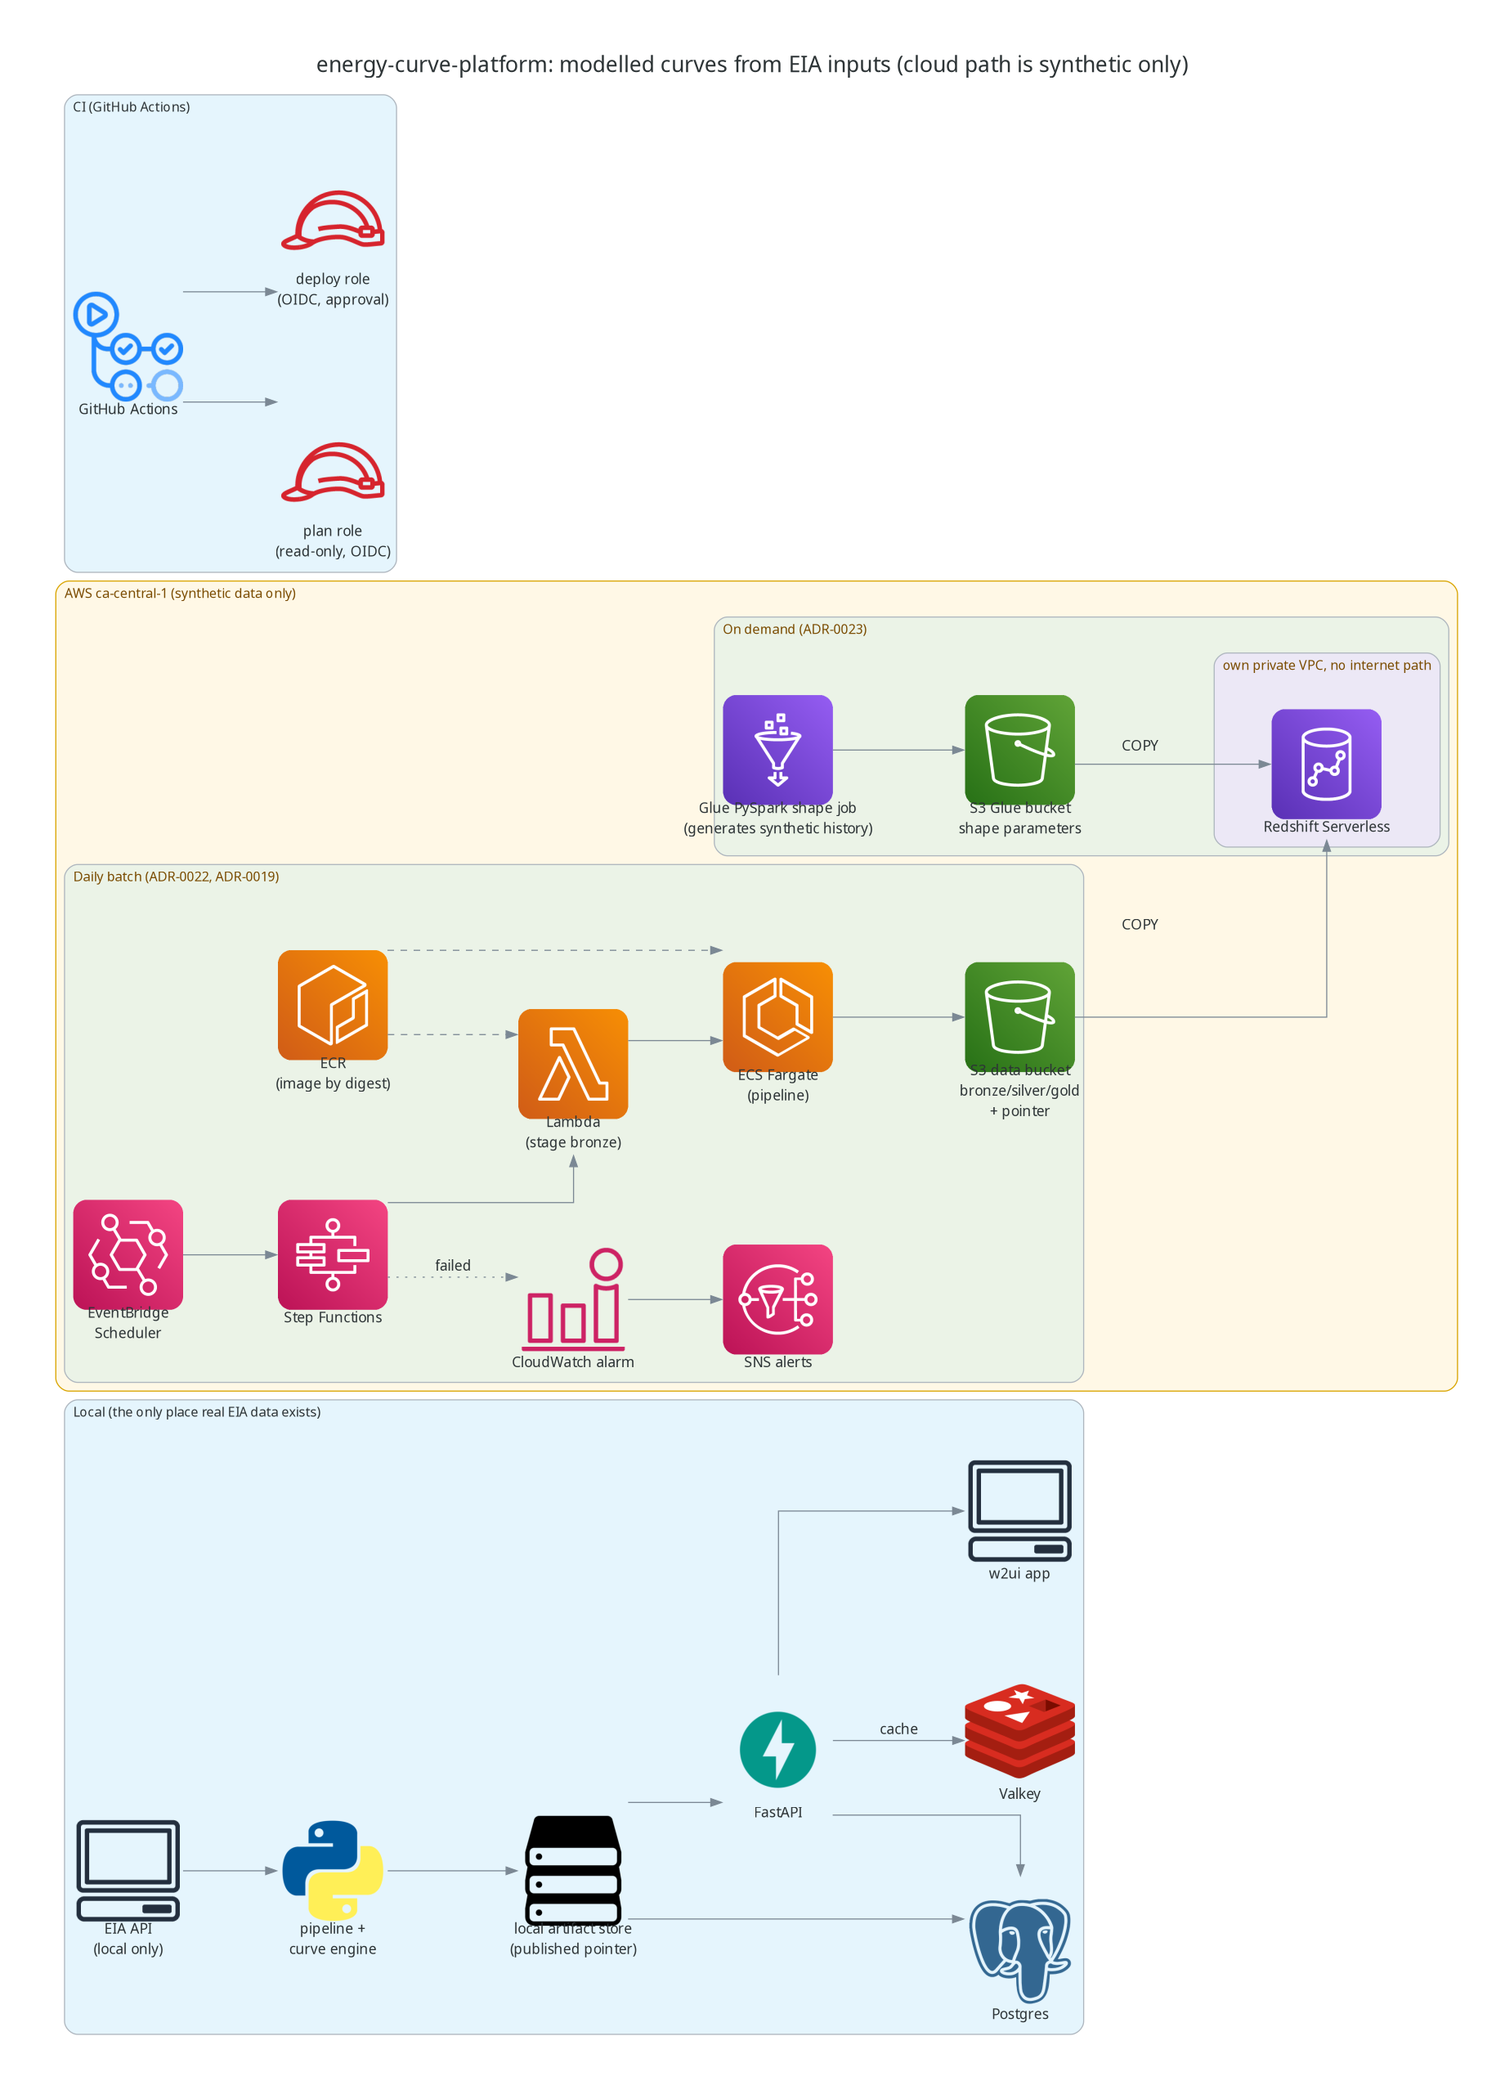
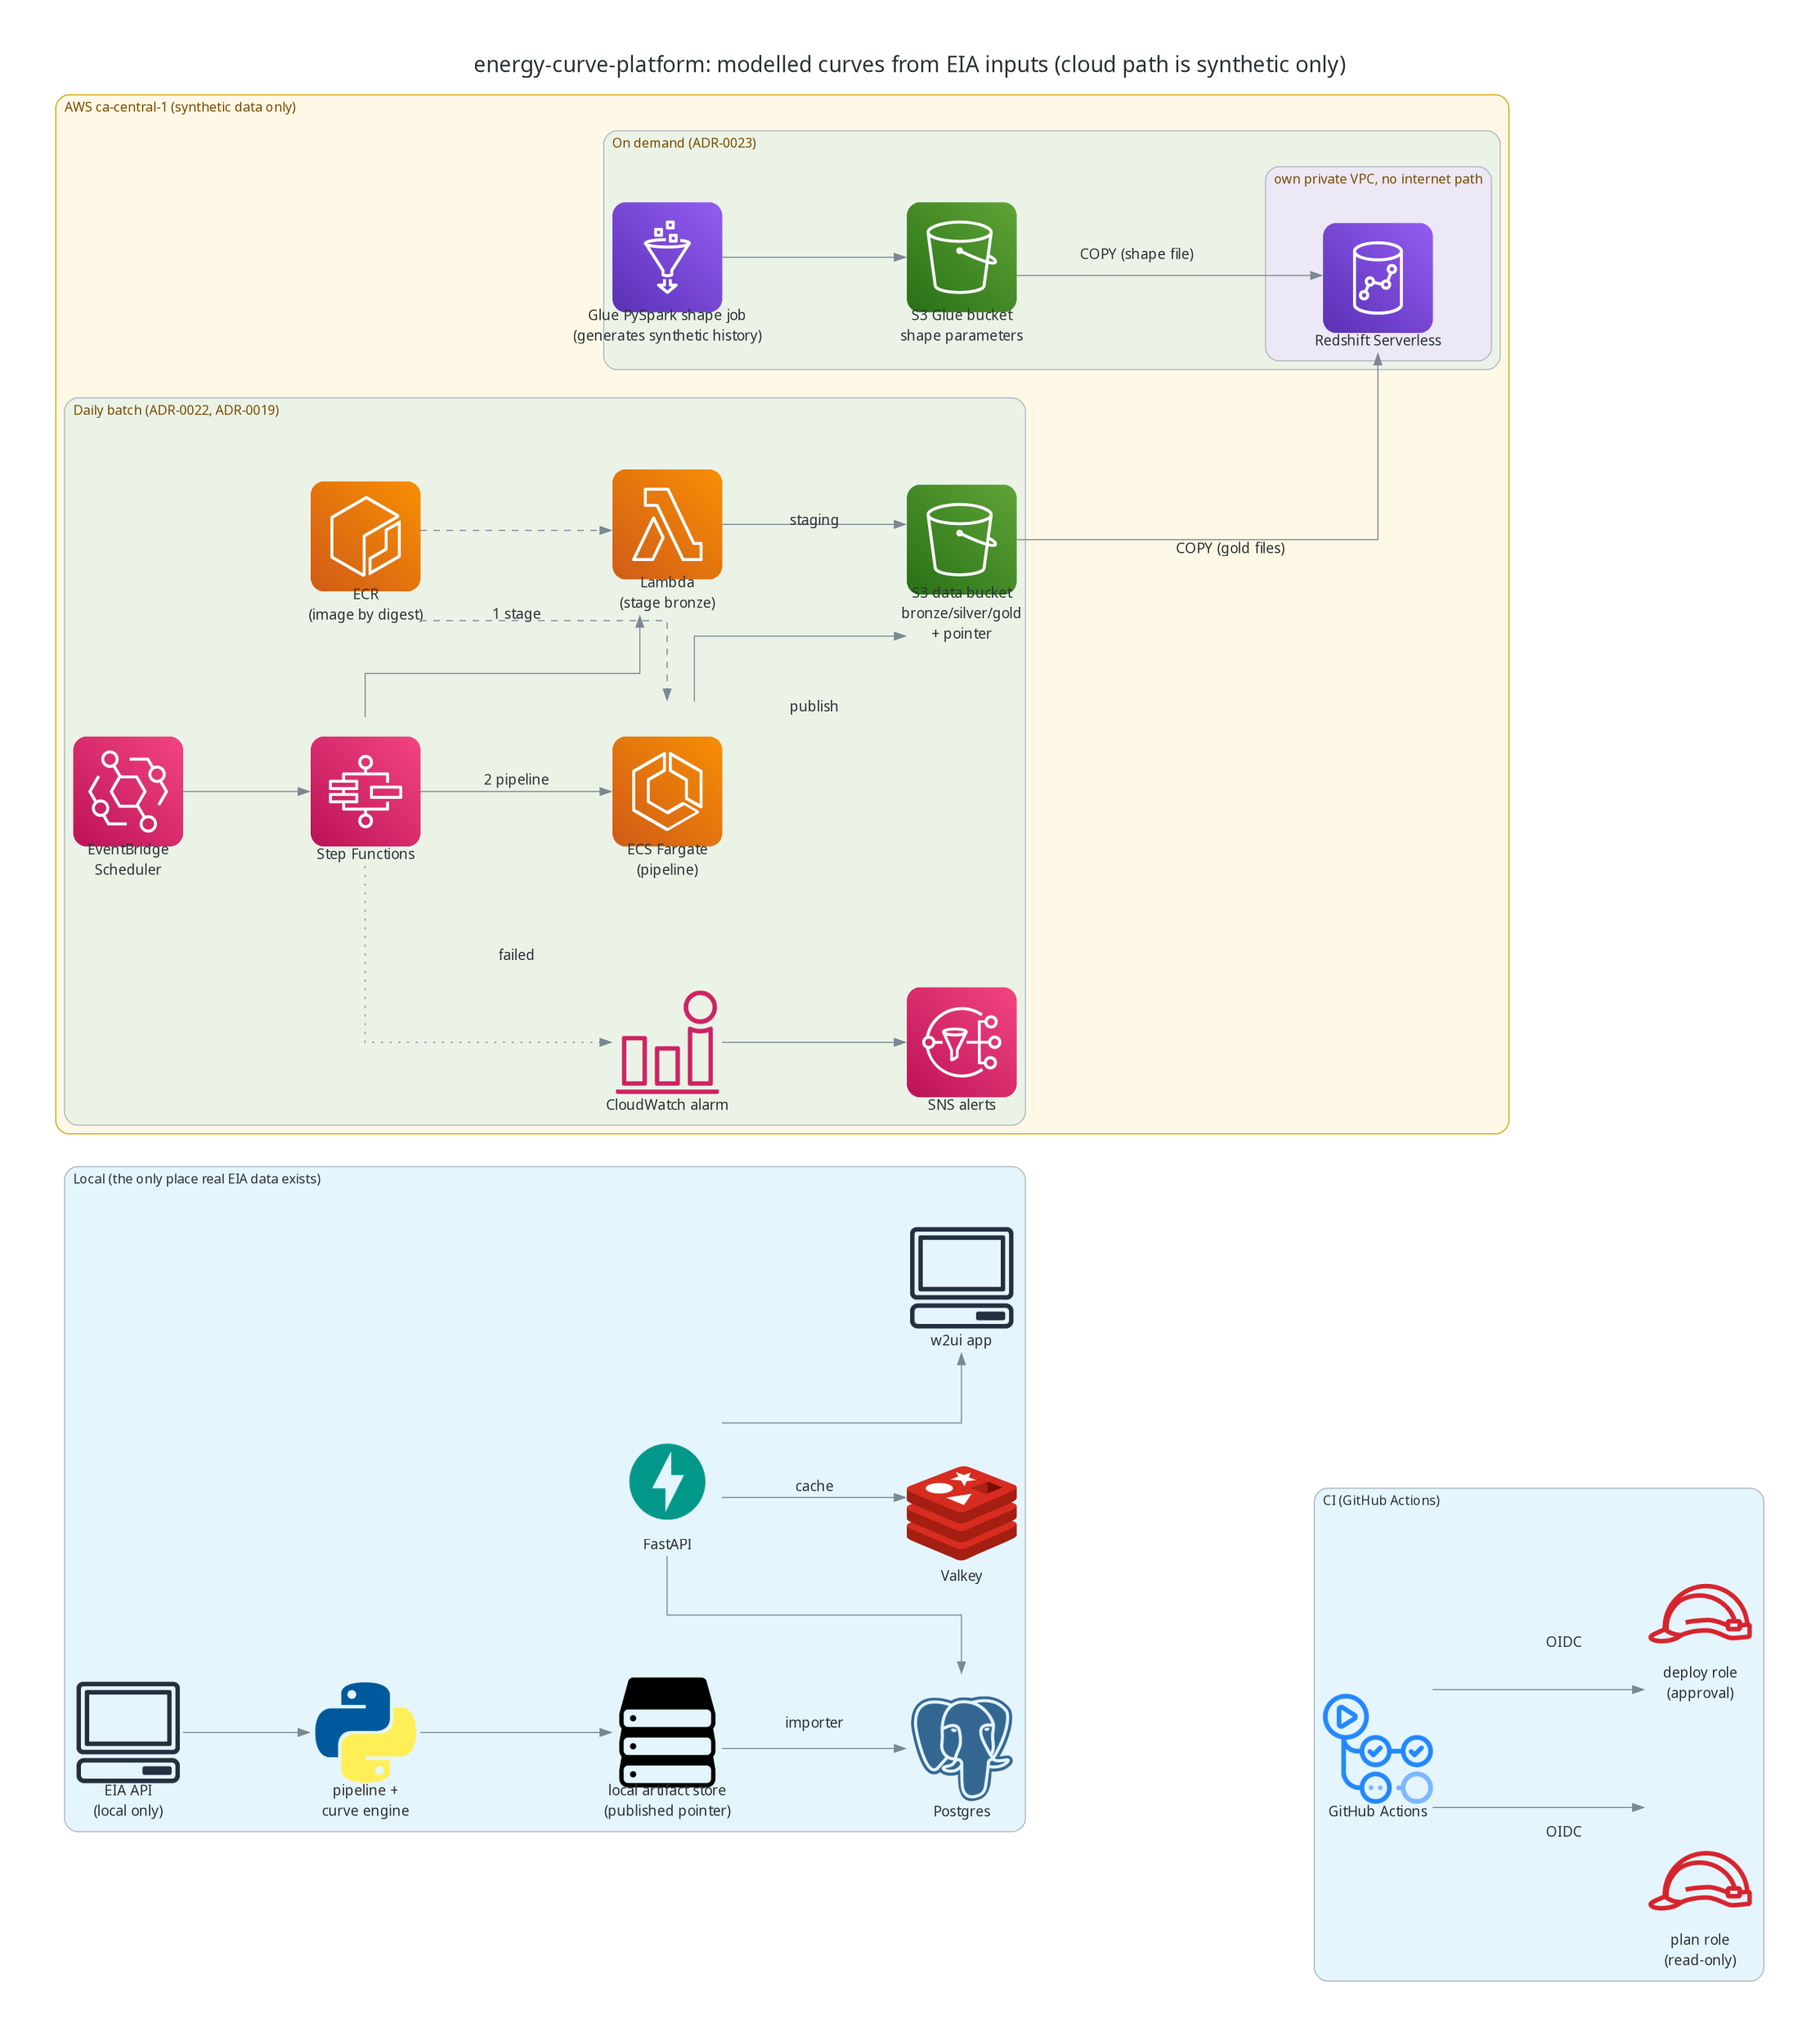
Correct the platform diagram edges and tidy its layout
The API does not read the artifact store: the store reaches Postgres through the importer, so that edge is relabelled and the store to API edge removed. Step Functions runs the stage and pipeline steps in order (ADR-0022), each writing to the data bucket, instead of a chain through the Lambda. Layout: larger spacing and a label margin so labels clear their icons, shorter CI labels, and the CI cluster beside the local stack.

diff --git a/docs/diagrams/platform.py b/docs/diagrams/platform.py
@@ -18,8 +18,10 @@ from diagrams.onprem.inmemory import Redis
 from diagrams.programming.framework import FastAPI
 from diagrams.programming.language import Python
 
-GRAPH = {"fontsize": "20", "labelloc": "t", "pad": "0.6", "nodesep": "0.9", "ranksep": "1.2"}
-NODE = {"fontsize": "13", "height": "2.0"}
+GRAPH = {"fontsize": "20", "labelloc": "t", "pad": "0.6", "nodesep": "1.1", "ranksep": "1.6"}
+NODE = {"fontsize": "13", "height": "1.9", "margin": "0.0,0.35"}
+EDGE = {"fontsize": "12"}
+HIDDEN = Edge(style="invis")
 SYNTHETIC = {"fontcolor": "#7a4b00", "bgcolor": "#fff8e6", "pencolor": "#d9a400"}
 
 with Diagram(
@@ -30,6 +32,7 @@ with Diagram(
     direction="LR",
     graph_attr=GRAPH,
     node_attr=NODE,
+    edge_attr=EDGE,
 ):
     # ADR-0011: real EIA data exists only locally; the cloud path never sees it.
     with Cluster("Local (the only place real EIA data exists)"):
@@ -44,8 +47,8 @@ with Diagram(
         valkey = Redis("Valkey")
         api = FastAPI("FastAPI")
         app = Client("w2ui app")
-        eia >> pipeline >> store >> pg
-        store >> api
+        eia >> pipeline >> store
+        store >> Edge(label="importer") >> pg
         api >> Edge(label="cache") >> valkey
         api >> pg
         api >> app
@@ -61,7 +64,12 @@ with Diagram(
             ecr = ECR("ECR\n(image by digest)")
             alarm = CloudwatchAlarm("CloudWatch alarm")
             topic = SNS("SNS alerts")
-            sched >> sfn >> stage >> task >> data
+            # ADR-0022: the state machine runs Stage (Lambda) and then Pipeline (ECS runTask.sync).
+            sched >> sfn
+            sfn >> Edge(label="1 stage") >> stage
+            sfn >> Edge(label="2 pipeline") >> task
+            stage >> Edge(label="staging") >> data
+            task >> Edge(label="publish") >> data
             ecr >> Edge(style="dashed") >> stage
             ecr >> Edge(style="dashed") >> task
             sfn >> Edge(style="dotted", label="failed") >> alarm >> topic
@@ -75,13 +83,16 @@ with Diagram(
             with Cluster("own private VPC, no internet path"):
                 rs = Redshift("Redshift Serverless")
             glue >> glue_bucket
-            glue_bucket >> Edge(label="COPY") >> rs
-            data >> Edge(label="COPY") >> rs
+            glue_bucket >> Edge(label="COPY (shape file)") >> rs
+            data >> Edge(xlabel="COPY (gold files)") >> rs
 
     # ADR-0010 (CI roles), ADR-0018 (workload boundary): OIDC plan and deploy roles.
     with Cluster("CI (GitHub Actions)"):
         gha = GithubActions("GitHub Actions")
-        plan = IAMRole("plan role\n(read-only, OIDC)")
-        deploy = IAMRole("deploy role\n(OIDC, approval)")
-        gha >> plan
-        gha >> deploy
+        plan = IAMRole("plan role\n(read-only)")
+        deploy = IAMRole("deploy role\n(approval)")
+        gha >> Edge(label="OIDC") >> plan
+        gha >> Edge(label="OIDC") >> deploy
+
+    # Layout only: this puts the CI cluster beside the local stack instead of below it.
+    pg >> HIDDEN >> gha
